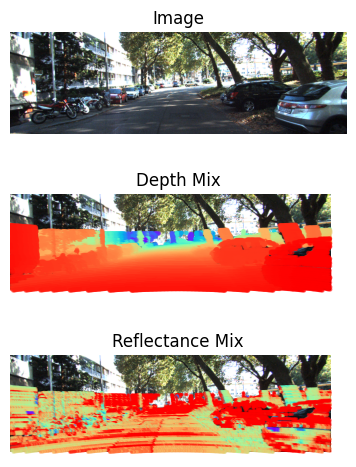
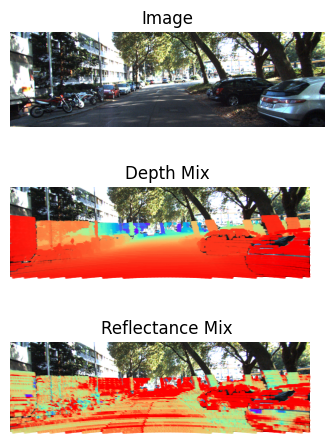
edited proj_velo2cam.py

diff --git a/proj_velo2cam.py b/proj_velo2cam.py
@@ -6,8 +6,6 @@ import os
 import glob
 
 def process_one_frame(number):
-    img = f'./data_object_image_2/testing/image_2/{number}.png'
-    binary = f'./data_object_velodyne/testing/velodyne/{number}.bin'
     with open(f'./testing/calib/{number}.txt','r') as f:
         calib = f.readlines()
     # 相机内参 camera2 
@@ -25,17 +23,20 @@ def process_one_frame(number):
     # | r21  r22  r23 |
     # | r31  r32  r33 |
     # example: 000007.txt
+    # ——————————————————————————————————————————————————————————————————
     # 9.999239000000e-01 9.837760000000e-03 -7.445048000000e-03 
     # -9.869795000000e-03 9.999421000000e-01 -4.278459000000e-03 
     # 7.402527000000e-03 4.351614000000e-03 9.999631000000e-01
+    # ——————————————————————————————————————————————————————————————————
     R0_rect = np.array([float(x) for x in calib[4].strip('\n').split(' ')[1:]]).reshape(3,3)
 
     # 矩阵转为如下形式, 增加维度方便计算
-
+    # ——————————————————————————————————————————————————————————————————
     #  9.999239000000e-01  9.837760000000e-03 -7.445048000000e-03 0
     # -9.869795000000e-03  9.999421000000e-01 -4.278459000000e-03 0
     #  7.402527000000e-03  4.351614000000e-03  9.999631000000e-01 0
     #                   0                   0                   0 1
+    # ——————————————————————————————————————————————————————————————————
     R0_rect = np.insert(R0_rect,3,values=[0,0,0],axis=0)
     R0_rect = np.insert(R0_rect,3,values=[0,0,0,1],axis=1)
 
@@ -55,7 +56,8 @@ def process_one_frame(number):
     Tr_velo_to_cam = np.insert(Tr_velo_to_cam,3,values=[0,0,0,1],axis=0)
 
     # read point cloud file
-    scan = np.fromfile(binary, dtype=np.float32).reshape((-1,4))
+    point_cloud_file = f'./data_object_velodyne/testing/velodyne/{number}.bin'
+    scan = np.fromfile(point_cloud_file, dtype=np.float32).reshape((-1,4))
 
     # lidar xyz (front, left, up)
     points = scan[:, 0:3]
@@ -63,7 +65,7 @@ def process_one_frame(number):
     # reflectance
     reflectance = scan[:, 3].T
 
-    # TODO: use fov filter? 
+    # 补充一个维度，便于矩阵计算
     velo = np.insert(points,3,1,axis=1).T
 
     # 删除距离为负的点云
@@ -86,28 +88,18 @@ def process_one_frame(number):
     cam[:2] /= cam[2,:]
 
     # plt init
-    # plt.figure(1)
-    fig, axes = plt.subplots(3, 1, figsize=(12,5))
-    png = mpimg.imread(img)
-    IMG_H,IMG_W,_ = png.shape
-    # plt.axis([0,IMG_W,IMG_H,0])
-    # plt.imshow(png)
+    img_file = f'./data_object_image_2/testing/image_2/{number}.png'
+    fig, axes = plt.subplots(3, 1)
+    img = mpimg.imread(img_file)
+    IMG_H,IMG_W,_ = img.shape
 
-
-    # plt.figure(2)
-    # png = mpimg.imread(img)
-    # IMG_H,IMG_W,_ = png.shape
-    # plt.axis([0,IMG_W,IMG_H,0])
-    # plt.imshow(png)
-    # plt.tight_layout()
-
-    axes[0].imshow(png)
+    axes[0].imshow(img)
     axes[0].set_title('Image')
 
-    axes[1].imshow(png)
+    axes[1].imshow(img)
     axes[1].set_title('Depth Mix')
 
-    axes[2].imshow(png)
+    axes[2].imshow(img)
     axes[2].set_title('Reflectance Mix')
 
     plt.tight_layout()
@@ -115,9 +107,7 @@ def process_one_frame(number):
     axes[1].axis('off')
     axes[2].axis('off')
 
-    # plt.figure(figsize=(12,5),dpi=96,tight_layout=True)
-
-    # filter point out of canvas
+    # filter point out of canvas 删除相机取景框以外的点云
     u,v,z = cam
     u_out = np.logical_or(u<0, u>IMG_W)
     v_out = np.logical_or(v<0, v>IMG_H)
@@ -126,19 +116,14 @@ def process_one_frame(number):
     reflectance = np.delete(reflectance,np.where(outlier))
     cam = np.delete(cam,np.where(outlier),axis=1)
 
-    # generate color map from depth
+    # 根据 u, v 将点云画到图像上 (s可调整点云像素大小)
     u,v,z = cam
     axes[1].scatter([u],[v],c=[z],cmap='rainbow_r',alpha=0.5,s=1)
     axes[2].scatter([u],[v],c=[reflectance],cmap='rainbow_r',alpha=0.5,s=1)
-    # plt.figure(1)
-    # plt.scatter([u],[v],c=[z],cmap='rainbow_r',alpha=0.5,s=2)
-    # plt.figure(2)
-    # plt.scatter([u],[v],c=[reflectance],cmap='rainbow_r',alpha=0.5,s=2)
 
-    # plt.title(name)
     plt.savefig(f'./data_object_image_2/testing/projection/{number}.png',bbox_inches='tight')
 
-    plt.show()
+    # plt.show()
 
 def main():
     img_dir = "data_object_image_2/testing/image_2"
